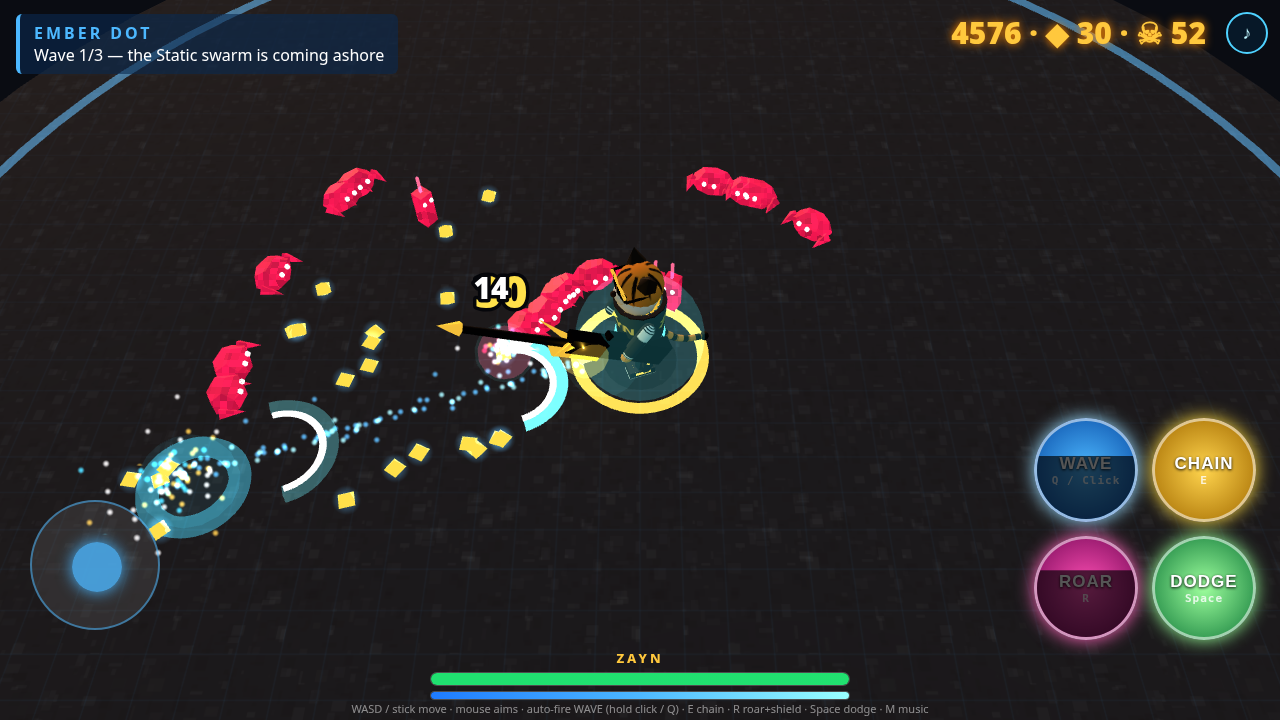
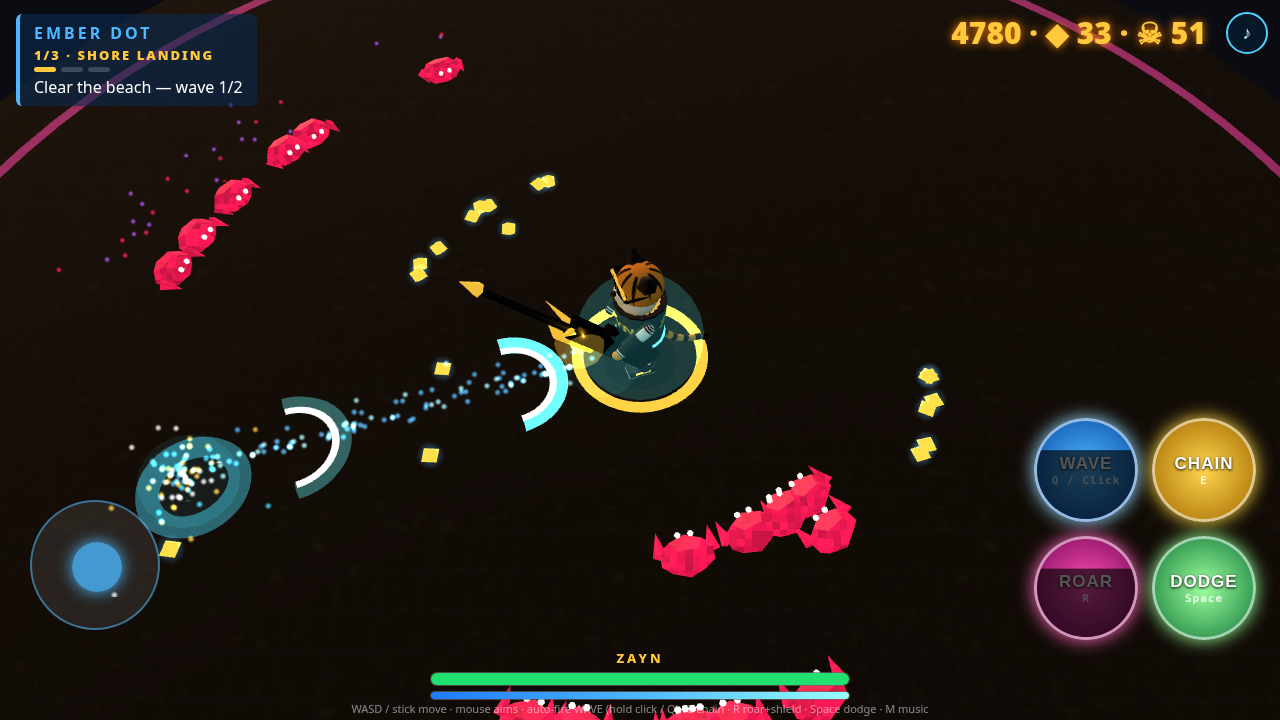
Mission 01 section levels: Shore Landing → Tower Ridge (hold ring) → Crater Gate (Brute); section HUD/progress, cleared transitions, Retry Section; merge/cap damage numbers (max 8, crit yellow); docs + shots

diff --git a/public/game.js b/public/game.js
@@ -178,8 +178,11 @@ const floorTex = canvasTex(512, 512, (x, w, h) => { x.fillStyle = '#23242b'; x.f
   x.strokeStyle = 'rgba(77,184,255,.08)'; x.lineWidth = 2; for (let i = 0; i <= 8; i++) { x.beginPath(); x.moveTo(i * 64, 0); x.lineTo(i * 64, h); x.moveTo(0, i * 64); x.lineTo(w, i * 64); x.stroke(); } });
 floorTex.wrapS = floorTex.wrapT = THREE.RepeatWrapping; floorTex.repeat.set(6, 6);
 const arena = new THREE.Group();
-{ const f = new THREE.Mesh(new THREE.CircleGeometry(ARENA + 6, 64), new THREE.MeshStandardMaterial({ map: floorTex, roughness: 1 })); f.rotation.x = -Math.PI / 2; f.position.y = .32; arena.add(f);
-  const edge = new THREE.Mesh(new THREE.TorusGeometry(ARENA + 1, .25, 6, 96), glow(SKY)); edge.rotation.x = Math.PI / 2; edge.position.y = .4; edge.material.opacity = .5; arena.add(edge); }
+let floorM, edgeM, tower;
+{ const f = new THREE.Mesh(new THREE.CircleGeometry(ARENA + 6, 64), new THREE.MeshStandardMaterial({ map: floorTex, roughness: 1 })); f.rotation.x = -Math.PI / 2; f.position.y = .32; arena.add(f); floorM = f.material;
+  const edge = new THREE.Mesh(new THREE.TorusGeometry(ARENA + 1, .25, 6, 96), glow(SKY)); edge.rotation.x = Math.PI / 2; edge.position.y = .4; edge.material.opacity = .5; arena.add(edge); edgeM = edge.material;
+  tower = new THREE.Group(); const tr = new THREE.Mesh(new THREE.TorusGeometry(5, .15, 6, 48), glow(SKY)); tr.rotation.x = Math.PI / 2; tr.position.y = .45;
+  const pole = new THREE.Mesh(new THREE.CylinderGeometry(.35, .6, 7, 6), new THREE.MeshStandardMaterial({ color: 0x1b2230, emissive: SKY, emissiveIntensity: .3 })); pole.position.y = 3.5; tower.add(tr, pole); tower.position.set(0, 0, -14); tower.visible = false; arena.add(tower); }
 arena.visible = false; scene.add(arena);
 
 // ===== shared Static shader (red-magenta, noise flicker) =====
@@ -241,7 +244,11 @@ const ox = ov.getContext('2d'); let DPR = 1;
 const nums = [];
 const proj = new THREE.Vector3();
 function toScreen(p, y) { proj.set(p.x, y, p.z).project(cam); return [(proj.x + 1) / 2 * innerWidth, (1 - proj.y) / 2 * innerHeight]; }
-function floatTxt(p, t, big = false, col = '#fff') { nums.push({ x: p.x, z: p.z, y: 3, t: 0, txt: t, vx: (Math.random() - .5) * 60, vy: -220 - Math.random() * 80, big, col }); if (nums.length > 160) nums.shift(); }
+function floatTxt(p, t, big = false, col = '#fff') { const v = +t;
+  if (!isNaN(v) && col !== '#ff4a5a') { let best = null, bd = 1e9; // merge nearby fresh hits; hard cap 8 visible
+    for (const n of nums) if (n.v != null) { const d = Math.hypot(n.x - p.x, n.z - p.z); if ((d < 3.5 && n.t < .35 || nums.length >= 8) && d < bd) { bd = d; best = n; } }
+    if (best) { best.v += v; best.txt = String(best.v); best.big = best.big || big || best.v >= 60; if (big) best.col = col; best.t = Math.min(best.t, .05); return; } }
+  nums.push({ v: isNaN(v) || col === '#ff4a5a' ? null : v, x: p.x, z: p.z, y: 3, t: 0, txt: t, vx: (Math.random() - .5) * 60, vy: -220 - Math.random() * 80, big, col }); if (nums.length > 160) nums.shift(); }
 function drawOverlay(dt) {
   const w = innerWidth, h = innerHeight; if (ov.width !== w * DPR) { DPR = Math.min(devicePixelRatio, 2); ov.width = w * DPR; ov.height = h * DPR; }
   ox.setTransform(DPR, 0, 0, DPR, 0, 0); ox.clearRect(0, 0, w, h); if (S.mode !== 'play' && S.mode !== 'end') return;
@@ -260,11 +267,17 @@ const S = { mode: 'title', t: 0, yaw: 0, hp: 100, en: 40, score: 0, kills: 0, xp
 const CD = { wave: .28, chain: 3, roar: 6, dodge: 1 };
 const COST = { chain: 15, roar: 30 };
 const rep = (t, n) => Array(n).fill(t);
-const WAVES = [
-  [...rep('crab', 36), ...rep('wick', 8)],
-  [...rep('crab', 50), ...rep('wick', 24), 'brute'],
-  [...rep('crab', 70), ...rep('wick', 40), 'brute', 'brute', 'brute'],
-].map(w => w.sort(() => Math.random() - .5));
+const mix = w => w.sort(() => Math.random() - .5);
+// Mission 01 is cut into 3 sectioned levels on the Ember Dot island; each has its own tint, objective and wave plan
+const SECTIONS = [
+  { name: 'SHORE LANDING', obj: 'Clear the beach', floor: 0x8a7458, edge: 0xff3cac, line: 'Warden: "Those are crabs. Ugly. Easy. Hit them."',
+    waves: () => [mix(rep('crab', 24)), mix([...rep('crab', 30), ...rep('wick', 10)])] },
+  { name: 'TOWER RIDGE', obj: 'Restore Signal Tower 1', floor: 0x4c7f8a, edge: 0x4DB8FF, hold: 15, line: 'Warden: "Stand in the ring. Keep the Tower breathing."',
+    waves: () => [mix([...rep('crab', 36), ...rep('wick', 14)]), mix([...rep('crab', 44), ...rep('wick', 22)])] },
+  { name: 'CRATER GATE', obj: 'Defeat the Red Candle Brute', floor: 0x8a4a46, edge: 0xff2a3a, line: 'Brute: "…LIQUIDATE…"',
+    waves: () => [mix([...rep('crab', 30), ...rep('wick', 20)]), ['brute', ...mix([...rep('crab', 40), ...rep('wick', 16)])]] },
+];
+let WAVES = [];
 const keys = {}, joy = { x: 0, y: 0 };
 const banner = (t, c = '#fff') => { const b = $('#banner'); b.textContent = t; b.style.color = c; b.style.opacity = 1; clearTimeout(banner.h); banner.h = setTimeout(() => b.style.opacity = 0, 1400); };
 const fade = (on) => $('#fade').style.opacity = on ? 1 : 0;
@@ -284,12 +297,27 @@ function landOnBeach() {
     boat.visible = false; boat.remove(zayn); scene.add(zayn); zayn.position.set(0, .3, 0); S.yaw = Math.PI; setArena(true);
     Object.assign(S, { hp: 100, en: 40, score: 0, kills: 0, xp: 0, wave: 0, iframes: 0, buff: 0, spawnQ: [], waveNext: 0, cd: { wave: 0, chain: 0, roar: 0, dodge: 0 } });
     cam.position.set(0, 30, 22); show('#cine', false); show('#hud', true);
-    setTimeout(() => { fade(0); S.mode = 'play'; banner('MISSION 01 · EMBER DOT', '#4DB8FF'); setTimeout(nextWave, 1600); }, 700);
+    startSection(0, true);
   }, 1000);
 }
+function secHud() { const c = SECTIONS[S.sec]; $('#secName').textContent = `${S.sec + 1}/${SECTIONS.length} · ${c.name}`;
+  $('#secDots').innerHTML = SECTIONS.map((_, i) => `<i class="${i < S.sec ? 'done' : i === S.sec ? 'cur' : ''}"></i>`).join('');
+  $('#obj').textContent = c.hold ? `${c.obj} — hold the ring ${Math.min(c.hold, S.hold).toFixed(0)}/${c.hold}s · wave ${S.wave}/${WAVES.length}` : `${c.obj} — wave ${S.wave}/${WAVES.length}`; }
+function startSection(i, fromBoat = false) { // entering a section: (fade already black) reset field, tint ground, fade in, banner card
+  const c = SECTIONS[i]; clearField(); waves.length = 0; S.sec = i; S.wave = 0; S.hold = 0; S.spawnQ = []; S.waveNext = 0; S.secDone = false; WAVES = c.waves();
+  S.hp = 100; S.iframes = 1.5; S.buff = 0; S.cd = { wave: 0, chain: 0, roar: 0, dodge: 0 }; if (fromBoat) Object.assign(S, { en: 40, score: 0, kills: 0, xp: 0 }); else S.en = Math.max(S.en, 40);
+  floorM.color.set(c.floor); edgeM.color.set(c.edge); tower.visible = !!c.hold; zayn.position.set(0, .3, c.hold ? 6 : 0); S.secStart = { score: S.score, kills: S.kills, xp: S.xp }; secHud();
+  setTimeout(() => { fade(0); S.mode = 'play'; banner(fromBoat ? 'MISSION 01 · EMBER DOT' : `SECTION ${i + 1} · ${c.name}`, '#4DB8FF');
+    setTimeout(() => { if (S.sec === i && S.mode === 'play') { banner(c.name, '#ffc83d'); $('#line').textContent = c.line; $('#line').style.opacity = 1; setTimeout(() => $('#line').style.opacity = 0, 3200); } }, 1500);
+    setTimeout(() => { if (S.sec === i && S.mode === 'play' && !S.wave) nextWave(); }, 2600); }, 600); }
+function sectionClear() { if (S.secDone) return; S.secDone = true;
+  if (S.sec >= SECTIONS.length - 1) return win();
+  S.mode = 'clear'; banner(`${SECTIONS[S.sec].name} CLEARED`, '#4DB8FF'); ring(zayn.position, SKY, 30, .8, .3, .06);
+  setTimeout(() => { fade(1); S.mode = 'clear'; setTimeout(() => startSection(S.sec + 1), 900); }, 1800); }
+window.__section = i => { fade(1); S.mode = 'clear'; setTimeout(() => startSection(i), 50); };
 function nextWave() {
-  if (S.wave >= WAVES.length) return win();
-  S.spawnQ = [...WAVES[S.wave]]; S.wave++; $('#obj').textContent = `Wave ${S.wave}/${WAVES.length} — the Static swarm is coming ashore`;
+  if (S.wave >= WAVES.length) return;
+  S.spawnQ = [...WAVES[S.wave]]; S.wave++; secHud();
   banner(`WAVE ${S.wave} · ${S.spawnQ.length} STATIC`, '#ff3cac');
 }
 function spawn(type, ang) { const T = TYPES[type], a = ang ?? Math.random() * 6.28, r = ARENA + 2;
@@ -298,8 +326,8 @@ function spawn(type, ang) { const T = TYPES[type], a = ang ?? Math.random() * 6.
   if (type === 'brute') { e.mesh.scale.setScalar(1.15); banner('RED CANDLE BRUTE', '#ff2a5a'); }
   enemies.push(e); burst(e.pos.clone().setY(1), [0xff1450, 0xa24cff], 10, 5, 4);
 }
-function win() { S.mode = 'end'; setTimeout(() => { $('#endT').textContent = 'MISSION COMPLETE'; $('#endT').style.color = '#4DB8FF'; $('#endS').textContent = `Ember Dot secured · ${S.kills} Static cleared · ${S.xp} gems · score ${S.score}. Next: Moonleaf Oval.`; show('#end', true); }, 900); }
-function lose() { S.mode = 'end'; banner('LIQUIDATED', '#ff2a5a'); setTimeout(() => { $('#endT').textContent = 'LIQUIDATED'; $('#endT').style.color = '#ff2a5a'; $('#endS').textContent = `Zayn went down on the beach · ${S.kills} kills · score ${S.score}. Run it back?`; show('#end', true); }, 1200); }
+function win() { S.mode = 'end'; setTimeout(() => { show('#retry', false); tower.visible = false; $('#endT').textContent = 'MISSION COMPLETE'; $('#endT').style.color = '#4DB8FF'; $('#endS').textContent = `Ember Dot secured · ${S.kills} Static cleared · ${S.xp} gems · score ${S.score}. Next: Moonleaf Oval.`; show('#end', true); }, 900); }
+function lose() { S.mode = 'end'; banner('LIQUIDATED', '#ff2a5a'); setTimeout(() => { $('#endT').textContent = 'LIQUIDATED'; $('#endT').style.color = '#ff2a5a'; $('#endS').textContent = `Zayn went down in ${SECTIONS[S.sec].name} · ${S.kills} kills · score ${S.score}. Retry the section or run the mission back.`; show('#retry', true); show('#end', true); }, 1200); }
 
 const aimDir = () => new THREE.Vector3(Math.sin(S.yaw), 0, Math.cos(S.yaw));
 function boom(p, col, r, dmg, kb = 10) { // AoE explosion: flash + rings + sparks + damage
@@ -353,6 +381,7 @@ addEventListener('pointermove', e => { if (e.pointerType === 'mouse') { mouse.on
   st.addEventListener('pointerup', () => { id = null; joy.x = joy.y = 0; kn.style.transform = ''; }); }
 $('.card.pick').onclick = () => { fade(1); setTimeout(() => { startCine(); fade(0); }, 600); };
 $('#skip').onclick = landOnBeach;
+$('#retry').onclick = () => { show('#end', false); fade(1); S.mode = 'clear'; const s0 = S.secStart; setTimeout(() => { Object.assign(S, s0); startSection(S.sec); }, 600); };
 $('#again').onclick = () => { show('#end', false); fade(1); setTimeout(() => { startCine(); fade(0); }, 600); };
 $('#menu').onclick = () => { show('#end', false); show('#hud', false); show('#title', true); S.mode = 'title'; setArena(false); clearField(); };
 
@@ -394,7 +423,11 @@ function tick(now) {
       // auto-fire WAVE (kite + shoot); mouse hold / Q also fires
       if (mouse.down || (!mouse.on && nearest(24)) || (mouse.on && nearest(26))) use('wave');
       if (S.spawnQ.length) { S.spawnT -= dt; if (S.spawnT <= 0) { const a = Math.random() * 6.28, n = Math.min(S.spawnQ.length, 4 + S.wave * 2); for (let k = 0; k < n; k++) spawn(S.spawnQ.shift(), a + (Math.random() - .5) * .9); S.spawnT = 1.4 - S.wave * .2; } }
-      else if (!enemies.length && S.wave) { S.waveNext += dt; if (S.wave >= WAVES.length) win(); else if (S.waveNext > 1.5) { S.waveNext = 0; nextWave(); } }
+      else if (S.wave && S.wave >= WAVES.length) { const c = SECTIONS[S.sec];
+        if (c.hold && S.hold < c.hold) { if (enemies.length < 10) S.spawnQ.push(...rep('crab', 8)); } // keep pressure until the tower is restored
+        else if (!enemies.length) { S.waveNext += dt; if (S.waveNext > 1) sectionClear(); } }
+      else if (!enemies.length && S.wave) { S.waveNext += dt; if (S.waveNext > 1.5) { S.waveNext = 0; nextWave(); } }
+      { const c = SECTIONS[S.sec]; if (c.hold && S.hold < c.hold) { if (Math.hypot(zayn.position.x - tower.position.x, zayn.position.z - tower.position.z) < 5) { S.hold += dt; if (S.hold >= c.hold) { banner('TOWER 1 RESTORED', '#4DB8FF'); ring(tower.position, SKY, 40, 1, .4, .08); } } if ((S.t * 4 | 0) !== (S.lt | 0)) { S.lt = S.t * 4; secHud(); } } }
     }
     // enemies: swarm toward player with simple separation
     const zp = zayn.position;

diff --git a/public/index.html b/public/index.html
@@ -25,7 +25,8 @@
   <button id="skip">SKIP ▸</button></div>
 
 <div id="hud" class="hide">
-  <div id="mission"><b>EMBER DOT</b><span id="obj">Clear the beach</span></div>
+  <div id="mission"><b>EMBER DOT</b><em id="secName">1/3 · SHORE LANDING</em><span id="secDots"></span><span id="obj">Clear the beach</span></div>
+  <div id="line"></div>
   <div id="score">0</div>
   <div id="banner"></div>
   <div id="bars"><div class="nm">ZAYN</div>
@@ -41,7 +42,7 @@
 </div>
 
 <section id="end" class="screen hide"><h1 id="endT"></h1><p id="endS"></p>
-  <button id="again">RUN IT BACK</button><button id="menu" class="ghost">CHARACTERS</button>
+  <button id="retry" class="hide">RETRY SECTION</button><button id="again">RUN IT BACK</button><button id="menu" class="ghost">CHARACTERS</button>
   <p class="disc">Unofficial fan-made prototype · not affiliated with HertzFlow</p></section>
 <script type="importmap">{"imports":{"three":"./vendor/three.module.js"}}</script>
 <script type="module" src="game.js"></script>

diff --git a/public/style.css b/public/style.css
@@ -52,3 +52,7 @@
 
 #mute{position:fixed;top:12px;right:12px;z-index:50;width:42px;height:42px;border-radius:50%;border:2px solid #4fd2ff;background:rgba(6,30,50,.7);color:#bff6ff;font-size:18px;cursor:pointer}#mute.off{opacity:.6;border-color:#888}
 @media (max-width:600px){#score{top:auto;bottom:150px;right:auto;left:16px;margin:0;font-size:18px}#help{display:none}}
+
+#mission em{display:block;font-style:normal;font-weight:900;color:#ffc83d;letter-spacing:2px;font-size:13px;margin:2px 0}
+#secDots{display:flex;gap:5px;margin:3px 0 4px}#secDots i{width:22px;height:5px;border-radius:3px;background:#ffffff30}#secDots i.done{background:#4DB8FF}#secDots i.cur{background:#ffc83d}
+#line{position:absolute;top:32%;width:100%;text-align:center;font-size:clamp(14px,2.2vw,20px);font-weight:700;color:#fff;text-shadow:0 2px 6px #000;opacity:0;transition:opacity .4s;pointer-events:none}

diff --git a/docs/STORY.md b/docs/STORY.md
@@ -30,8 +30,19 @@ Theme: **discipline beats greed.** Leverage is power, but the Master is what hap
 | 7. Clue | Brute drops a cracked chip showing the Dust Array map. | Pick up the chip | **Warden:** "That's a broadcast key… from the desert. Someone's behind this." |
 | 8. Outro | Island lights up sky-blue. Results screen. | — | **Zayn:** "One island down." |
 
+### Mission 01 section levels (shipped build)
+Boat "Almost There" intro → fade onto Ember Dot, then:
+
+| # | Section | Ground | Objective | Waves | Exit |
+|---|---------|--------|-----------|-------|------|
+| 1 | **SHORE LANDING** | warm sand | Clear the beach | 24 crabs → 30 crabs + 10 Wick Runners | all Static down |
+| 2 | **TOWER RIDGE** | teal | Restore Signal Tower 1 — stand in the ring 15s | 36 crabs + 14 wicks → 44 crabs + 22 wicks; crab packs keep coming until the tower is restored | tower restored + field clear |
+| 3 | **CRATER GATE** | ember red | Defeat the Red Candle Brute | 30 crabs + 20 wicks → **Brute** + 40 crabs + 16 wicks | Brute and adds down → MISSION COMPLETE |
+
+Beats 1–3 above map to Section 1, beats 4–5 to Section 2, beats 6–8 to Section 3.
+
 **Rewards:** 100 Merits · +1 Signal Tower lit · Unlock Moonleaf Oval · Cosmetic: "First Signal" badge · Bonus 25 Merits for no-damage Brute kill.
-**Fail state:** fall → respawn at last tower (no game over spiral).
+**Fail state:** LIQUIDATED → Retry Section (restart the current section, no game-over spiral) or Run It Back from the boat.
 
 ---
 

diff --git a/docs/DESIGN.md b/docs/DESIGN.md
@@ -30,6 +30,13 @@ Crabs are one InstancedMesh (body/claws/eyes); gems instanced; all Static share 
 4. Fade in on the beach, weapon in hand, mission objective on screen.
 Every mission tells one story beat and ends in a payoff (boss, rescue, island claimed).
 
+## Section levels
+Missions are cut into **3 short sections** on the island instead of one endless fight. Each section has its own ground tint/edge color, objective, Warden/enemy line and wave plan. HUD (top-left) shows `n/3 · SECTION NAME`, a 3-segment progress bar and the live objective.
+- **Clear:** finish the section's waves (+ any hold objective) → "SECTION CLEARED" banner → fade → next section card. HP refills, score/kills/gems carry over.
+- **Fail:** LIQUIDATED → **RETRY SECTION** (restart current section with stats rolled back to section start) or **RUN IT BACK** (full mission from the boat).
+- Mission 01 sections: see [STORY.md](STORY.md#mission-01-section-levels).
+- Damage numbers merge nearby hits (≤3.5m, <0.35s) into one growing number; hard cap 8 visible floats, extras fold into the nearest. Crits stay yellow.
+
 ## Roster
 Hero (Mythic, founder, strongest) · Bankyo (Legendary) · Zayn (Legendary) · Lyra · Hertzling · Chado · Kael · Warden — see [CHARACTERS.md](CHARACTERS.md).
 

diff --git a/docs/GAMEPLAY.md b/docs/GAMEPLAY.md
@@ -20,3 +20,6 @@ The current build is a **blocky placeholder prototype**: characters are simple s
 4. Rig + animate: idle, run, attack x3, dodge, signature, hit, KO.
 5. Export glTF (`.glb`) into `public/assets/characters/<name>/`; load with Three.js GLTFLoader.
 6. Tune readability in-game at stream resolution and on mobile.
+
+## Section levels (live)
+Mission 01 now plays as 3 sections (Shore Landing → Tower Ridge → Crater Gate) with a cleared banner + fade between each and Retry Section on fail. Test hook: `__section(i)` in the console jumps to section i (0–2).
